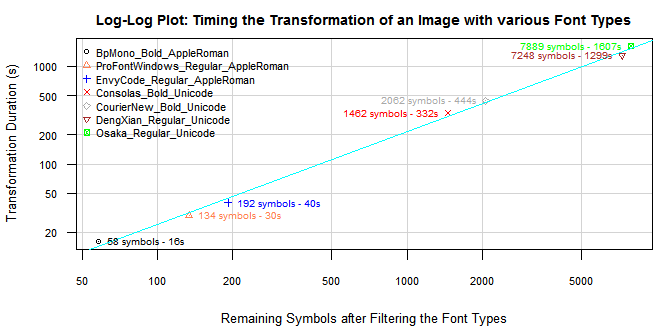
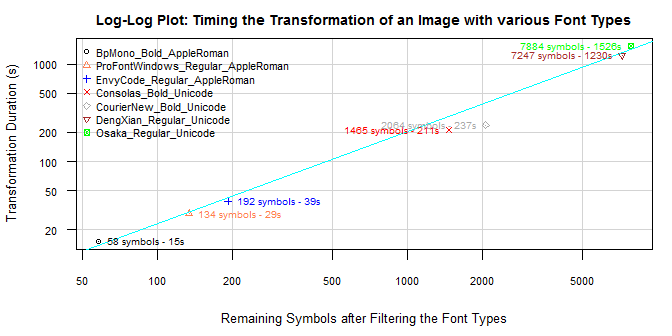
doc: Updated performance page

diff --git a/doc/pages/performance/performance.md b/doc/pages/performance/performance.md
@@ -39,7 +39,7 @@ Explanations concerning the values within the table:
 
 #### Existing versions compared by their speed:
 
--   Version **2.0** is typically superior to the previous versions. However, it can disable all its features except *Skipping Matching Aspects Heuristic*. In that case it will be slightly inferior to **v1.1 - v1.3** when the *[Structural Similarity](https://ece.uwaterloo.ca/~z70wang/research/ssim)* Matching Aspect isn't enabled along with a few other aspects.
+-   Version **2.0** is typically superior to the previous versions. However, it can disable all its new features. In that case it will be slightly inferior to **v1.3**.
 
 -   Version **1.3** allows *visualizing drafts* and preserves the *most efficient multithreading switches* from *v1.2*. It performs better than **v1.2** as long as demanding only a few drafts.
 
@@ -65,9 +65,11 @@ Continuing with more relevant features from the application performance point of
 
 I) ***Skipping Matching Aspects Heuristic***
 
-It belongs to the [**Draft Improver**](../appendix/modules/draftImprover.md) module.
+Its purpose is to identify poor matches as early and as cheap as possible. When patches are compared against the symbols using multiple matching aspects, poor matches might be spotted after evaluating only a few scores of those matching aspects. For that it is enough to know the total score of the best match found so far and the maximum score that can be obtained for the current pair: patch - symbol.
 
-This is the only new feature that gets disabled not by changing the configuration file, but by using a single Matching Aspect for transforming an image. In that case, when no other feature is enabled, **v2.0** is slower than **v1.3** because of the introduced infrastructure ready to support all those new features.
+This feature belongs to the [**Draft Improver**](../appendix/modules/draftImprover.md) module.
+
+The heuristic doesn't apply when using a single Matching Aspect. Besides, there are some entries within the configuration file to adjust (*EnableSkipAboveMatchRatio*) or disable the discussed feature (*UseSkipMatchAspectsHeuristic*). As explained below, the efficiency of the technique depends a lot on the image to approximate.
 
 Next 2 images, both with the same size (27540 patches), are used during the following explanations:
 
@@ -108,9 +110,11 @@ Next 2 images, both with the same size (27540 patches), are used during the foll
 
 > Uniform patches are just blurred and copied to the result image. Only the remaining patches must be matched against the entire symbols set.
 >
-> Typically, for coarse patches there are only a few viable match candidates among the symbols. A much serious competition appears when searching the match for patches with finely-grained texture - the race gets decided late, probably only after the last challenge.
+> Typically, for coarse patches there are a few viable (good) match candidates among the symbols.
+>
+> Finely-grained patches rarely have good matches, thus the scores of their best matches are quite low. This means that the scores of the symbols are close to each other. Replacing the previous best match happens therefore rather easy and often. But such high frequency of best match replacement is costly.
 
-Now let's observe the count of matching aspects that were skipped while transforming the 2 images based on:
+Now let's observe the maximum count of matching aspects that can be skipped while transforming the 2 images based on:
 
 -   the configuration from [this example](../results/Example1_v1.3.jpg) (using 125 glyphs)
 -   *Parallelism* (2 threads)
@@ -120,18 +124,18 @@ Now let's observe the count of matching aspects that were skipped while transfor
 |---------------------------------------------------------------------------------|-----------:|---------------------------------------:|----------------------------------------:|
 | *Prefer Larger Symbols*                                                         |       0.001|                                   0.00%|                                    0.00%|
 | *Prefer Better Contrast*                                                        |       2.000|                                   0.00%|                                    0.00%|
-| *Foreground matching*                                                           |       3.100|                                  11.24%|                                    0.41%|
-| *Background matching*                                                           |       3.200|                                  11.72%|                                    0.44%|
-| *Edges matching*                                                                |       4.000|                                  14.30%|                                    0.64%|
-| *Gravitational Smoothness*                                                      |      15.000|                                  15.90%|                                    0.83%|
-| *Directional Smoothness*                                                        |      15.100|                                  16.23%|                                    0.85%|
-| *[Structural Similarity](https://ece.uwaterloo.ca/~z70wang/research/ssim) (SS)* |    1000.000|                                  44.19%|                                   13.66%|
+| *Foreground matching*                                                           |       3.100|                                  11.11%|                                    0.40%|
+| *Background matching*                                                           |       3.200|                                  11.58%|                                    0.43%|
+| *Edges matching*                                                                |       4.000|                                  14.10%|                                    0.61%|
+| *Gravitational Smoothness*                                                      |      15.000|                                  15.64%|                                    0.78%|
+| *Directional Smoothness*                                                        |      15.100|                                  15.96%|                                    0.80%|
+| *[Structural Similarity](https://ece.uwaterloo.ca/~z70wang/research/ssim) (SS)* |    1000.000|                                  44.40%|                                   13.66%|
 
 > The 2 scenarios involved all *Matching Aspects*, which are sorted in the table by their complexity, like the application itself does. First such aspect is always evaluated, but the following ones can be skipped sometimes. This order ensures that the most complex matching aspects are skipped most often.
 
 In the presented cases, the 2 least complex matching aspects (*Prefer Larger Symbols* and *Prefer Better Contrast*) had to be evaluated for all compare operations. Only after cumulating the scores from both of them it was possible to guarantee for some symbols that they cannot be better matches (for a given patch) than the best match found earlier. For those symbols, evaluating the rest of the matching aspects is therefore not necessary.
 
-Apart from the substantial number of uniform patches, image [I1](../../examples/6.jpg) presents also many coarse-textured regions, which generally reduce the number of potential matches among the symbols. Once found, such a match will have a score really difficult to compete against. Many of the remaining symbols will be rejected due to this fact soon after computing the scores for only a few matching aspects.
+Apart from the substantial number of uniform patches, image [I1](../../examples/6.jpg) presents also many coarse-textured regions, which generally have a few good matches among the symbols. Once found, such a match will have a score really difficult to compete against. Many of the remaining symbols will be rejected due to this fact soon after computing the scores for only a few matching aspects.
 
 Comparing now the durations required to approximate the images either by all matching aspects, or just by *[Structural Similarity](https://ece.uwaterloo.ca/~z70wang/research/ssim)* (SS - the most complex one):
 
@@ -151,7 +155,11 @@ Current percentage of skipped SS aspects for transforming image I2 with all aspe
 -   required count of additionally skipped SS aspects is: <i>(73.408s - 60.681s) / tSS = 721675.9</i>, to be rounded to 721676
 -   the result is: <i>13.66% + (100 \* 721676 / 3440875)% = 34.63362%</i>. This means that the paradox of evaluating more aspects in less time happens only when there are at least 35%-40% skipped SS aspects
 
-So, ***this feature is most valuable when skipping many evaluations of the Structural Similarity matching aspect***, thus on images with more frequent coarse patches.
+So, this feature is most valuable when transforming images with more frequent coarse patches.
+
+To efficiently deal with all kind of patches, the heuristic starts getting used only when the score of the best match found so far is larger than a given threshold (*EnableSkipAboveMatchRatio*). In this way, the cost of frequent poor matches replacement is avoided.
+
+The order of the symbols during investigation is relevant for this heuristic, as well. The sooner a good match is found, the more aspects are skipped for subsequent poor match symbols. The adopted compromise is appropriate for most matching aspects - traversing the symbols sorted in ascending order of their *density* (how much space they occupy from their square), while maintaining found clusters together. The matching aspect *Prefer Larger Symbols* clearly suffers because of this order, but this is the cheapest matching aspect to compute.
 
 ------------------------------------------------------------------------
 
@@ -159,7 +167,9 @@ So, ***this feature is most valuable when skipping many evaluations of the Struc
 
 II) ***Symbol Set Filtering***
 
-It belongs to the [**Symbols Provider**](../appendix/modules/symbolsProvider.md) module.
+The duration of the image approximation process depends on how many symbols need to be compared to each image patch. Filtering can shrink the symbols set by removing undesired glyphs and will contribute in this way to shortening the image transformation time.
+
+The feature belongs to the [**Symbols Provider**](../appendix/modules/symbolsProvider.md) module.
 
 The implemented filters can be enabled / disabled separately.
 
@@ -175,23 +185,27 @@ Let's see how various font families shrink after applying all implemented filter
 
 | Font Type                           |  Initial Symbols|  Remaining Symbols|  Transformation Time|
 |-------------------------------------|----------------:|------------------:|--------------------:|
-| BpMono\_Bold\_AppleRoman            |              125|                 58|                   16|
-| ProFontWindows\_Regular\_AppleRoman |              201|                134|                   30|
-| EnvyCode\_Regular\_AppleRoman       |              220|                192|                   40|
-| Consolas\_Bold\_Unicode             |             2215|               1462|                  332|
-| CourierNew\_Bold\_Unicode           |             2846|               2062|                  444|
-| DengXian\_Regular\_Unicode          |            28541|               7248|                 1299|
-| Osaka\_Regular\_Unicode             |            14963|               7889|                 1607|
+| BpMono\_Bold\_AppleRoman            |              125|                 58|                   15|
+| ProFontWindows\_Regular\_AppleRoman |              201|                134|                   29|
+| EnvyCode\_Regular\_AppleRoman       |              220|                192|                   39|
+| Consolas\_Bold\_Unicode             |             2215|               1465|                  211|
+| CourierNew\_Bold\_Unicode           |             2846|               2064|                  237|
+| DengXian\_Regular\_Unicode          |            28541|               7247|                 1230|
+| Osaka\_Regular\_Unicode             |            14963|               7884|                 1526|
 
-As stated before, the processing time should be proportional to the count of symbols used for approximating a certain image. Next *log-log* plot confirms this statement:<br> <img src="./LinearModelForAnImg-1.png" style="display: block; margin: auto;" />
+The processing time looks quasi-proportional to the count of (remaining) symbols used for approximating a certain image. See next *log-log* plot for the values from the previous table:<br> <img src="./LinearModelForAnImg-1.png" style="display: block; margin: auto;" />
 
-So, when using **Pic2Sym v2.0** with all features enabled, the time required for the transformation of the image [I1](../../examples/6.jpg) could be approximated by the rule:<br> <i>Duration = 0.191 \* RemainingSymbols + 18.668</i>
+So, when using **Pic2Sym v2.0** with all features enabled, the time required for the transformation of the image [I1](../../examples/6.jpg) could be approximated by the rule:<br> <i>Duration = 0.182 \* RemainingSymbols + 1.752</i>
+
+The resulted times for the fonts *Consolas\_Bold\_Unicode* and *CourierNew\_Bold\_Unicode* are clearly better than expected and this is because those font families can be **grouped in larger clusters** than the other font types, resulting in an even smaller count of remaining symbols (there will be just one representative symbol for each group of glyphs). These aspects are better explained within the [Symbols Clustering](#SymsClustering) section from below.
 
 ------------------------------------------------------------------------
 
 <a name = "SymsPreselection"></a>
 
 III) ***Symbols Preselection***
+
+The goal of this feature is reducing the complexity of the operations involved when comparing a symbol against an image patch. This was realized by initially using tiny versions of the symbols and of the image patches - in a *preselection phase*, followed by comparing the normal size patches with only the most promising symbols from the *short list* resulted from the first phase.
 
 This feature interacts with several modules, but affects mostly the following 2: [Draft Improver](../appendix/modules/draftImprover.md) and [Image Transformer](../appendix/modules/transformer.md).
 
@@ -204,6 +218,8 @@ Additionaly, the larger the original font size, the higher the acceleration rate
 
 <img src="./PreselectionGainByFontSize-1.png" style="display: block; margin: auto;" />
 
+The values from the graph are computed like this: <i>(timingWithPreselection / timingWithoutPreselection) \* 100%</i>
+
 The images [I1](../../examples/6.jpg) and [I2](../../examples/15.jpg) were mentioned earlier in different studies. The times for the ratios presented in the chart were obtained based on the configuration from [this example](../results/Example1_v1.3.jpg). *Parallelism* was enabled while *Drafts generation* and all other features were ***OFF***. *Short List length* was 2.
 
 The quality of the result is a subjective matter. One could not even notice how this feature provides poor matches for some patches. However, the [Unit Tests](../UnitTesting/UnitTesting.md) demonstrated a significant drop of the accuracy for approximations using the Preselection mode.
@@ -214,11 +230,13 @@ The quality of the result is a subjective matter. One could not even notice how 
 
 IV) ***Symbols Clustering***
 
-It belongs to the [**Symbols Provider**](../appendix/modules/symbolsProvider.md) module.
+Typically, the symbol sets contain several groups of similar glyphs. When such a group is not similar to a given patch, it is more efficient to compare just the representative of the group against the patch and then move to other symbols. When the representative appears quite similar to the patch all the members of the group need to be compared with the patch, to find the best match among them.
 
-Most of the scenarios from the [results](../results/results.md) page induce the wrong idea that *Clustering the Symbols* might just slow the transformation process (apart from [*Scenarios 7*](../results/results.md#Scenario7) and [*8*](../results/results.md#Scenario8), all the other show worse performance when clustering the glyph set).
+This feature belongs to the [**Symbols Provider**](../appendix/modules/symbolsProvider.md) module.
 
-Here are 2 transformations that might redeem this feature:
+Most of the scenarios from the [results](../results/results.md) page induce the wrong idea that *Clustering the Symbols* might be useless most of the time (apart from [*Scenarios 7*](../results/results.md#Scenario7) and [*8*](../results/results.md#Scenario8), all the other ones show no performance gain when clustering the glyph set).
+
+Here are 2 transformations that might redeem this feature (please ignore the durations reported in the images - current version is faster, as the table below will illustrate):
 
 -   [first one](6_Consolas_Unicode_Bold_10_SmallSet_1462.jpg) based on the font type *Consolas Bold Unicode*
 -   [the second](6_CourierNew_Unicode_Bold_10_SmallSet_2062.jpg) using *Courier New Bold Unicode*
@@ -237,8 +255,8 @@ All features were enabled for a first measurement, then the clustering was disab
 <tr class="header">
 <th></th>
 <th align="center">Average Cluster Size</th>
-<th align="center">Transformation using Clustering</th>
-<th align="center">Transformation without Clustering</th>
+<th align="center">Using all Features</th>
+<th align="center">All Features except Clustering</th>
 <th align="center">Gain from Clustering</th>
 </tr>
 </thead>
@@ -246,32 +264,27 @@ All features were enabled for a first measurement, then the clustering was disab
 <tr class="odd">
 <td><em>Consolas Bold Unicode</em></td>
 <td align="center">1.28</td>
-<td align="center">332s</td>
-<td align="center">394s</td>
-<td align="center">118% (1.18 x faster)</td>
+<td align="center">211s</td>
+<td align="center">259s</td>
+<td align="center">123% (1.23 x faster)</td>
 </tr>
 <tr class="even">
 <td><em>Courier New Bold Unicode</em></td>
 <td align="center">1.32</td>
-<td align="center">444s</td>
-<td align="center">556s</td>
-<td align="center">125% (1.25 x faster)</td>
+<td align="center">237s</td>
+<td align="center">293s</td>
+<td align="center">124% (1.24 x faster)</td>
 </tr>
 </tbody>
 </table>
 
 The *average cluster size = acs* represents how large the existing clusters are, on average. It gets reported in the *console window* each time a font type is loaded.
 
-Using this notion, I've analyzed its value for the scenarios from the [results](../results/results.md) page:
+Typically, there is a threshold average cluster size (*MinAverageClusterSize*) under which the clustering mechanism would slow the transformation. This threshold is around 1.12 when using 2 threads.
 
--   [*Scenarios 7*](../results/results.md#Scenario7) presents a Preselection mode with 4s faster than not using that mode. The *acs* was 1.18
--   [*Scenarios 8*](../results/results.md#Scenario8) is in favor of the Preselection mode. 2s is the difference between the 2 modes. The *acs* was 1.13
--   all other scenarios are against the Preselection mode. Their *acs* values were below 1.12
+The application has been configured to use Clustering only when *acs* is above *MinAverageClusterSize*. When ignored, the displayed clusters are separated with interrupted lines (dashes), instead of continuous red lines.
 
-So I reckon there is a ***threshold*** *average cluster size* around 1.12:
-
--   for values below it, clustering will typically perform worse
--   for values above it, it *might be faster if the generated clusters are of superior quality*
+The symbols are not compared against patches in the order presented by the Symbols View. The traversal order is always determined only by glyph density (keeping clusters together when they don't get ignored).
 
 Several points on *clustering quality*:
 
@@ -296,9 +309,11 @@ These times were achieved only after introducing a heuristic method for computin
 
 V) ***Alternative Blur Algorithms***
 
-They belong to the [**Draft Improver**](../appendix/modules/draftImprover.md) module.
-
 One possible *Matching Aspect* to be used during image approximation is *[Structural Similarity](https://ece.uwaterloo.ca/~z70wang/research/ssim)*. It relies heavily on *Gaussian blurring*, whose implementation is already optimized in OpenCV for a sequential run. However, `GaussianBlur` function is the most time-consuming operation during image approximation when using the previously mentioned *Matching Aspect*.
+
+Several alternatives for the Gaussian blur algorithm were investigated and some were integrated in the project.
+
+These blur algorithms belong to the [**Draft Improver**](../appendix/modules/draftImprover.md) module.
 
 For the typical standard deviation of 1.5, `GaussianBlur` from OpenCV still remains the fastest when compared to other tested sequential innovative algorithms:
 
@@ -309,7 +324,7 @@ For the typical standard deviation of 1.5, `GaussianBlur` from OpenCV still rema
 
 All those competitor algorithms are less accurate than *Extended Box Blur* configured with just 2 repetitions.<br> When applied only once, sequential *Box-based blur* techniques can be 1.5 - 3 times faster than `GaussianBlur` from OpenCV.<br> However, basic *Box blurring* with no repetitions has poor quality, while *Extended Box blurring* incurs additional time costs for an improved quality.
 
-[Here](http://dev.ipol.im/~getreuer/code/doc/gaussian_20131215_doc/group__ebox__gaussian.html) is one implementation of the *Extended Box blurring*.<br> This project contains its own implementation of this blur technique (**ExtBoxBlur**).
+[Here](http://dev.ipol.im/~getreuer/code/doc/gaussian_20131215_doc/group__ebox__gaussian.html) is one implementation of the *Extended Box blurring*. This project contains its own implementation of this blur technique (**ExtBoxBlur**).
 
 The project includes following blur algorithms:
 
